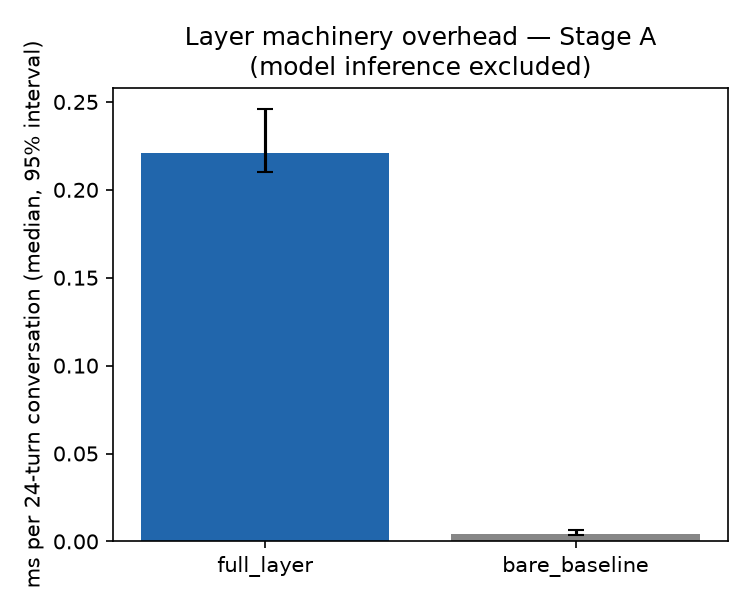
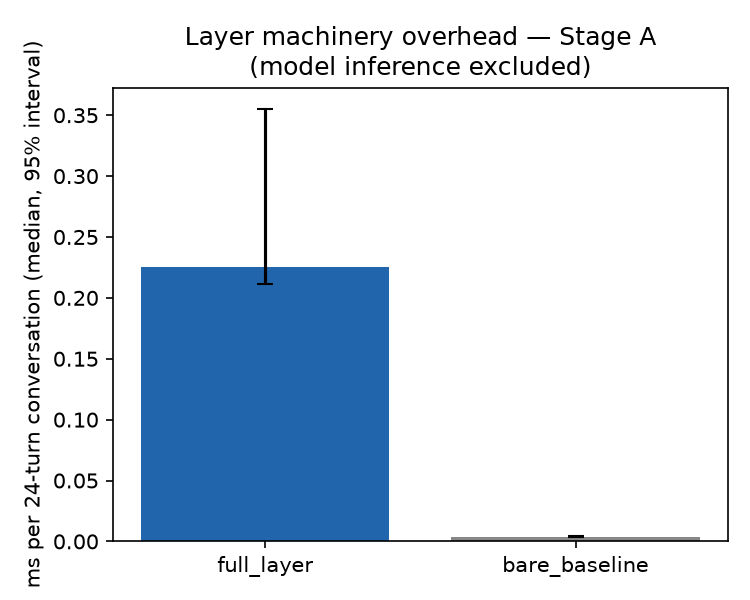
fix(paper): review round-2 fixes + improvements
MAJOR fixes: per-extractor AUC CIs now quoted (logit 0.410 [0.366,0.454]
entirely below chance; consistency 0.661 [0.604,0.727] entirely above) —
the sign claims are now CI-backed; Stage-A results restored to the full
120-case run and reproduce.py gained --outdir so the test suite writes
to a temp dir and can never clobber released results again.

MINOR fixes: combined-pass qualified (CI lower bound grazes the 0.60
bar); amendment ordering record added to the paper and PROTOCOL.md
(margin frozen before any per-arm AUC; coarse bin-reading disclosed);
acceptance-rule OR-edge disclosed as scope (user corrections to weak
beliefs accepted even against contradicting retrieval); WR-as-expressed-
condition clarified; 'revision machinery holds' narrowed to soundness +
acceptance rule; rounding unified (0.875/0.420); 'sharply' bounded.

Improvements: 'anchor-degeneracy-resistant' wording; abstract AUC
uncertainty qualifiers; threshold-vs-full CI overlap stated; Section-8
robustness-to-uncertainty sentence; novelty claim scoped; greedy-pass
logit provenance stated.

Re-review clean; verification battery all-PASS. Abstract 249 words;
12 pages; 0 errors/undefined/Overfull; 54 tests green.

diff --git a/tests/test_reproduce.py b/tests/test_reproduce.py
@@ -12,12 +12,14 @@ ROOT = Path(__file__).resolve().parents[1]
 
 
 @pytest.fixture(scope="module")
-def quick_run():
+def quick_run(tmp_path_factory):
+    outdir = tmp_path_factory.mktemp("results-quick")
     r = subprocess.run(
-        [sys.executable, str(ROOT / "scripts" / "reproduce.py"), "--quick"],
+        [sys.executable, str(ROOT / "scripts" / "reproduce.py"), "--quick",
+         "--outdir", str(outdir)],
         capture_output=True, text=True, cwd=ROOT)
     assert r.returncode == 0, r.stderr[-2000:]
-    return ROOT / "results"
+    return outdir
 
 
 def _csv(path):
@@ -72,7 +74,8 @@ def test_rerun_byte_identical_csvs(quick_run):
                        if p.name != "overhead.csv"}
     before = logical()
     r = subprocess.run(
-        [sys.executable, str(ROOT / "scripts" / "reproduce.py"), "--quick"],
+        [sys.executable, str(ROOT / "scripts" / "reproduce.py"), "--quick",
+         "--outdir", str(quick_run)],
         capture_output=True, text=True, cwd=ROOT)
     assert r.returncode == 0, r.stderr[-2000:]
     assert before == logical()

diff --git a/scripts/reproduce.py b/scripts/reproduce.py
@@ -73,6 +73,8 @@ def main() -> int:
     ap = argparse.ArgumentParser()
     ap.add_argument("--seed", type=int, default=protocol.MASTER_SEED)
     ap.add_argument("--quick", action="store_true")
+    ap.add_argument("--outdir", default=str(ROOT / "results"),
+                    help="output directory (tests pass a temp dir; default results/)")
     args = ap.parse_args()
 
     boot_n = 200 if args.quick else protocol.BOOTSTRAP_N
@@ -80,8 +82,8 @@ def main() -> int:
 
     t_start = time.perf_counter()
     world, model, docs, instances, labels, runs, benchmark_src = run_all(args.seed, args.quick)
-    results = ROOT / "results"
-    results.mkdir(exist_ok=True)
+    results = Path(args.outdir)
+    results.mkdir(parents=True, exist_ok=True)
     (results / "events").mkdir(exist_ok=True)
 
     # --- fidelity.csv + fidelity_bins.csv (C2) --------------------------------

diff --git a/results/RESULTS.md b/results/RESULTS.md
@@ -1,6 +1,6 @@
 # Truth Prototype Results — Stage A (synthetic validation)
 
-Generated by `scripts/reproduce.py` with master seed `20260711` (QUICK mode); benchmark: benchmark/v1.0 (frozen, sha-verified, seed 20260712); 20 conversations per arm; cluster bootstrap n=200 (unit = conversation).
+Generated by `scripts/reproduce.py` with master seed `20260711`; benchmark: benchmark/v1.0 (frozen, sha-verified, seed 20260712); 120 conversations per arm; cluster bootstrap n=2000 (unit = conversation).
 
 ## Instrument-validation checks (pre-registered in the build plan)
 
@@ -16,51 +16,51 @@ Generated by `scripts/reproduce.py` with master seed `20260711` (QUICK mode); be
 
 | arm | combined | signal | consistency |
 | --- | ---: | ---: | ---: |
-| full | 0.142 | 0.134 | 0.174 |
-| uniform | 0.244 | 0.252 | 0.272 |
-| always_hedged | 0.344 | 0.342 | 0.347 |
-| threshold_only | 0.252 | 0.220 | 0.206 |
+| full | 0.161 | 0.151 | 0.199 |
+| uniform | 0.237 | 0.242 | 0.244 |
+| always_hedged | 0.368 | 0.360 | 0.359 |
+| threshold_only | 0.176 | 0.191 | 0.161 |
 
 ## Expression discrimination (Amendment 1) — AUC, 0.5 = chance
 
 | arm | combined | signal | consistency |
 | --- | ---: | ---: | ---: |
-| full | 0.630 | 0.637 | 0.589 |
+| full | 0.635 | 0.635 | 0.576 |
 | uniform | 0.500 | 0.500 | 0.500 |
 | always_hedged | 0.500 | 0.500 | 0.500 |
-| threshold_only | 0.533 | 0.535 | 0.513 |
+| threshold_only | 0.597 | 0.578 | 0.555 |
 
 ## Consistency & revision (C3)
 
 | arm | contradiction rate | acks | traced | accepted revs | true-corr accept | false-corr accept |
 | --- | ---: | ---: | ---: | ---: | ---: | ---: |
-| full | 0.0000 | 18 | 18 | 42 | 0.7917 | 0.6562 |
-| uniform | 0.0000 | 23 | 23 | 41 | 0.7143 | 0.6875 |
-| always_hedged | 0.0000 | 23 | 23 | 41 | 0.7273 | 0.7188 |
-| threshold_only | 0.0000 | 19 | 19 | 37 | 0.6522 | 0.5625 |
-| store_no_ack | 0.0000 | 0 | 0 | 40 | 0.6923 | 0.6875 |
-| no_provenance | 0.0000 | 20 | 20 | 38 | 0.7727 | 0.6562 |
-| stateless | 0.0704 | 0 | 0 | 0 | — | — |
+| full | 0.0000 | 73 | 73 | 212 | 0.7705 | 0.5404 |
+| uniform | 0.0000 | 98 | 98 | 211 | 0.7311 | 0.5427 |
+| always_hedged | 0.0000 | 92 | 92 | 206 | 0.7458 | 0.5404 |
+| threshold_only | 0.0000 | 100 | 100 | 213 | 0.7440 | 0.5303 |
+| store_no_ack | 0.0000 | 0 | 0 | 215 | 0.7500 | 0.5505 |
+| no_provenance | 0.0000 | 96 | 96 | 213 | 0.7603 | 0.5427 |
+| stateless | 0.0651 | 0 | 0 | 0 | — | — |
 
 ## Assertions & capability (C4)
 
 | arm | confidently-false rate | coverage | answer accuracy |
 | --- | ---: | ---: | ---: |
-| full | 0.0990 | 0.8350 | 0.6126 |
-| uniform | 0.3267 | 0.9505 | 0.6562 |
-| always_hedged | 0.0000 | 0.9538 | 0.6436 |
-| threshold_only | 0.1485 | 0.9505 | 0.6528 |
-| store_no_ack | 0.1056 | 0.8185 | 0.6331 |
-| no_provenance | 0.1584 | 0.9505 | 0.6528 |
-| stateless | 0.1188 | 0.8251 | 0.6400 |
+| full | 0.0940 | 0.8379 | 0.6610 |
+| uniform | 0.3147 | 0.9324 | 0.6625 |
+| always_hedged | 0.0000 | 0.9319 | 0.6680 |
+| threshold_only | 0.1336 | 0.9340 | 0.6687 |
+| store_no_ack | 0.0871 | 0.8347 | 0.6610 |
+| no_provenance | 0.1410 | 0.9261 | 0.6745 |
+| stateless | 0.0998 | 0.8184 | 0.6626 |
 
 ## Overhead (per 24-turn conversation, median + 95% interval)
 
 | config | median (ms) | lo | hi |
 | --- | ---: | ---: | ---: |
-| full_layer | 0.2212 | 0.2101 | 0.2459 |
-| bare_baseline | 0.0040 | 0.0038 | 0.0063 |
-| added_per_conversation | 0.2172 | — | — |
+| full_layer | 0.2250 | 0.2115 | 0.3550 |
+| bare_baseline | 0.0039 | 0.0037 | 0.0041 |
+| added_per_conversation | 0.2211 | — | — |
 
 ## Honesty notes (non-negotiable)
 
@@ -83,4 +83,4 @@ Generated by `scripts/reproduce.py` with master seed `20260711` (QUICK mode); be
 - Determinism: logical outputs byte-identical under the recorded seeds on a
   pinned environment; timing rows are wall-clock (median + interval only).
 
-Full parameter register: `run_meta.json` · protocol: `../PROTOCOL.md` · wall time 1.34s.
+Full parameter register: `run_meta.json` · protocol: `../PROTOCOL.md` · wall time 72.5s.

diff --git a/PROTOCOL.md b/PROTOCOL.md
@@ -104,6 +104,19 @@ policy scores as calibrated whenever corpus accuracy sits near its anchor), not
 tuned against arm outcomes; its margin is anchored to the chance value 0.5,
 which every single-category policy attains by construction.
 
+**Ordering record (FROZEN, for inspectability):** the metric definition and the
+0.60 / +0.05 / both-extractors margin were written into this file and into
+`truthllm/metrics.py` BEFORE `expression_auc` was computed on any arm (the
+scoring code and this section land in the same commit as the re-scored results,
+so the within-session ordering is attested here rather than by commit
+separation). Full disclosure: during the ECE failure analysis a coarse
+bin-based reading of the FULL arm's combined reliability bins had been made
+(suggesting combined discrimination roughly in the 0.6--0.7 range); no
+per-extractor, per-control, or threshold-only AUC existed or was estimable
+before the freeze, and the per-extractor robustness requirement — the clause
+the amended check ultimately FAILS — was frozen without any per-extractor
+information.
+
 | item | status | value |
 |---|---|---|
 | amended manipulation check | FROZEN | expression-discrimination AUC: P(rank(category of a correct expressed claim) > rank(incorrect)), ties ½; category ranks HEDGE_LOW < HEDGE_HIGH < ASSERT; DECLINEs excluded (coverage) |
